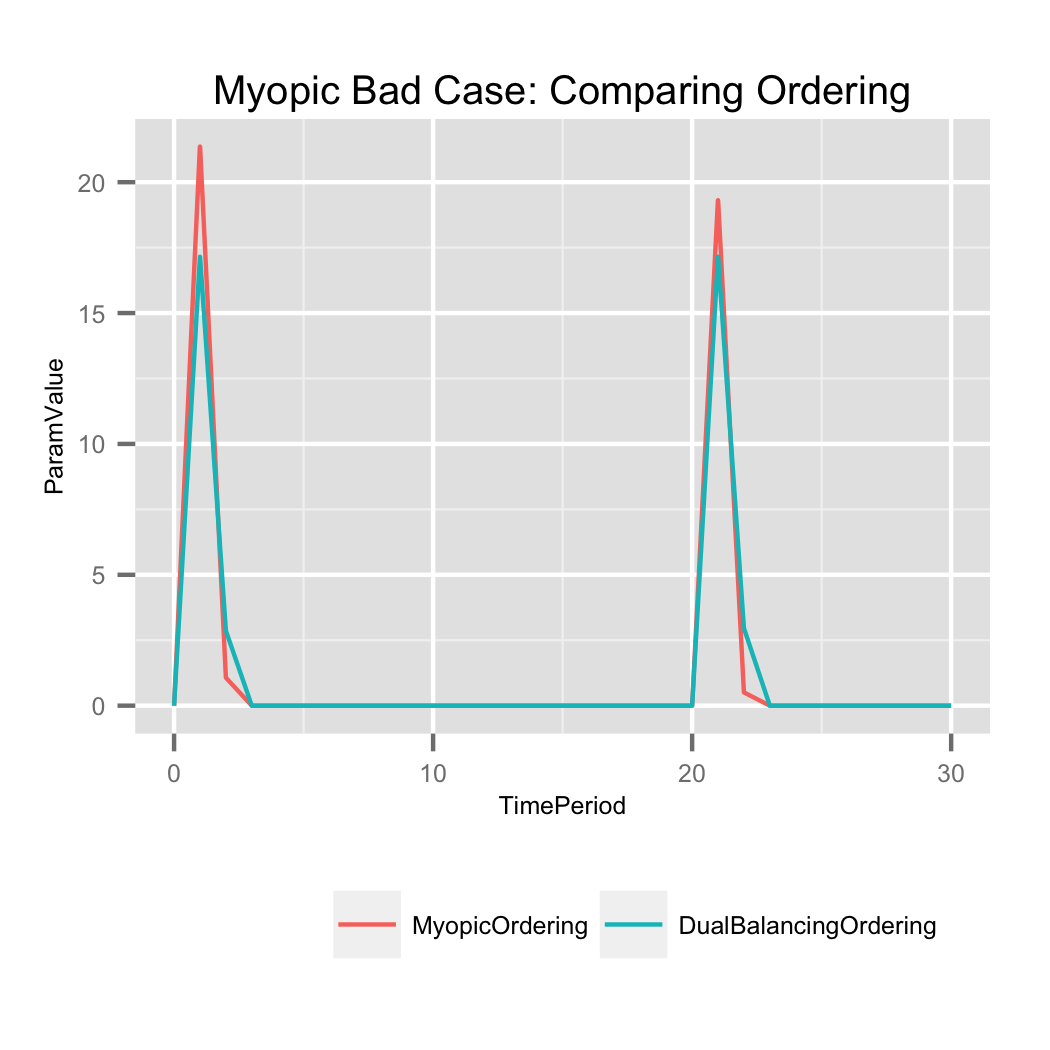
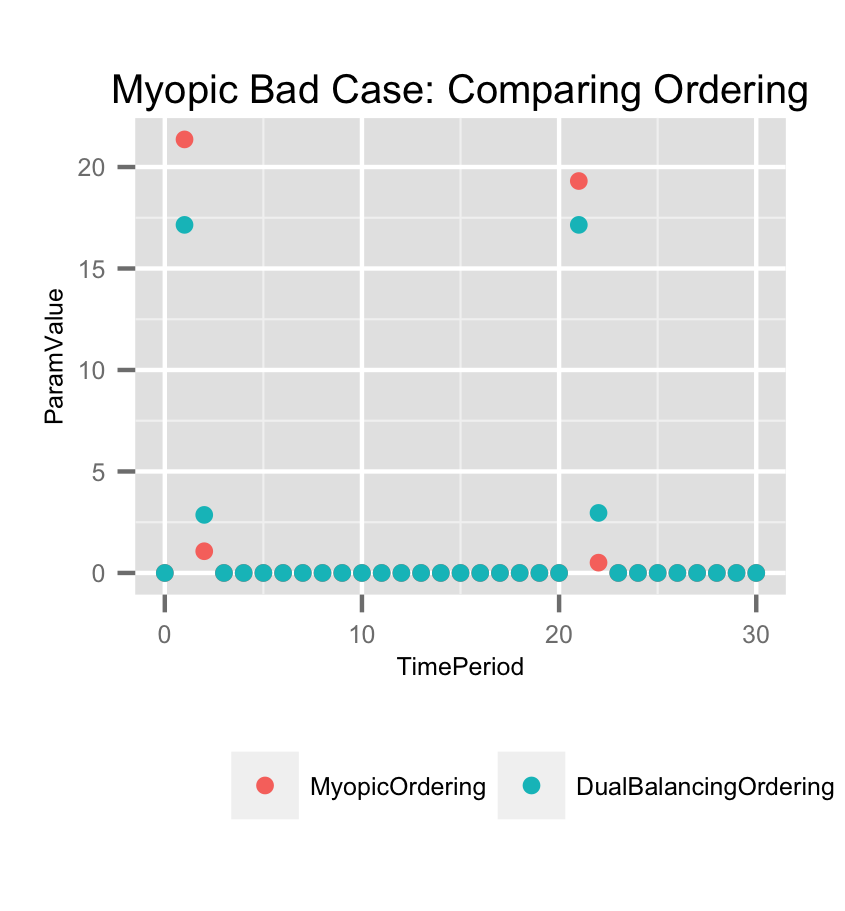
final presentation edits

Changed region(s): [[0.0308, 0.0615, 0.9538, 0.7991], [0.3077, 0.8299, 0.9846, 0.8913]]

diff --git a/final_presentation.tex b/final_presentation.tex
@@ -32,6 +32,19 @@
 \begin{document}
   \frame{\titlepage}
   \section{The Periodic-Review Stochastic Inventory Control Problem}
+  \subsection{Minimizing Cost}
+  \begin{frame}
+    \frametitle{Minimizing Expected Cost}
+    Our goal is to supply each unit of demand without ordering too early or too late. This is difficult because:
+    \begin{itemize}
+      \item Oftentimes demand and lead times (time between order and receipt of product) are unpredictable.
+      \item Inaccuracies can be extremely costly, so it is important that approximations are provably accurate within a certain range of error
+    \end{itemize}
+    To illustrate the problem, a different, and simpler algorithm:
+      \begin{center}
+      \includegraphics[height=1.5in]{purchasing.png}
+      \end{center}
+  \end{frame}
   \subsection{General Concepts}
   \begin{frame}
     \frametitle{The Periodic-Review Stochastic Inventory Control Problem}
@@ -47,20 +60,6 @@
       \item These environments experience high correlation between demands in different periods (difficult to compute optimal inventory policy).
     \end{itemize}
   \end{frame}
-  \subsection{Minimizing Cost}
-  \begin{frame}
-    \frametitle{Minimizing Expected Cost}
-    Our goal is to supply each unit of demand without ordering too early or too late. This is difficult because:
-    \begin{itemize}
-      \item Oftentimes demand and lead times (time between order and receipt of product) are unpredictable.
-      \item Inaccuracies can be extremely costly, so it is important that approximations are provably accurate within a certain range of error
-    \end{itemize}
-    To illustrate the problem, a different, and simpler algorithm:
-      \begin{center}
-      \includegraphics[height=1.5in]{purchasing.png}
-      \end{center}
-  \end{frame}
-
   \section{Expected Cost Function}
   \subsection{Minimizing Expected Cost}
   \begin{frame}
@@ -72,7 +71,7 @@
     \vspace{0.1in}
     At each time period $t = 1,\cdots,T$, the following cost are incurred
         \[L_t(x_t,d_t,q_t):=c_tq_t+h_t(x_t + q_t - d_t)^{+}+p_t(x_t + q_t -d_t)_{t}^{-}\]
-        (Local Cost = Ordering Cost + Holding Cost + Backloging Cost)
+        (Local Cost = Ordering Cost + Holding Cost + Backlogging Cost)
     \begin{itemize}
       \item $c_t$: per-unit ordering cost at time $t$.
       \item $h_t$: per-unit holding cost from $t$ to $t + 1$.
@@ -86,12 +85,11 @@
   \begin{frame}
     Goal: At time $t$, choose $q_t$ to minimize the expected total cost from period $t$ to $T$.\\
     Let $V_t$ be the minimum expected cost from period $t$ to $T$. Then
-    \begin{eqnarray*}
-    V_T(x_T,d_{1..T-1}) =& \min_{q_T \geq 0} E[L_T(x_T,D_T,q_T) | d_{1..T-1}]\\
-    V_t(x_t,d_{1..t-1}) =& \min_{q_t \geq 0} E[L_t(x_t,D_t,q_t)\\
-                        &+V_{t+1}(x_t + q_t - D_t, d_{1..t-1},D_t)|d_{1..t-1}]
-    \end{eqnarray*}
-    
+    \begin{align}
+    V_T(x_T,d_{1..T-1}) &= \min_{q_T \geq 0} E[L_T(x_T,D_T,q_T) | d_{1..T-1}] \nonumber\\
+    V_t(x_t,d_{1..t-1}) &= \min_{q_t \geq 0} E[L_t(x_t,D_t,q_t)\nonumber\\
+    & +V_{t+1}(x_t + q_t - D_t, d_{1..t-1},D_t)|d_{1..t-1}]\nonumber
+    \end{align}
     This gives us two natural ways to "solve" the problem:
     \begin{itemize}
       \item 
@@ -104,47 +102,47 @@
 
 \begin{frame}
 Recall: 
-    \begin{eqnarray*}
-    V_T(x_T,d_{1..T-1}) =& \min_{q_T \geq 0} E[L_T(x_T,D_T,q_T) | d_{1..T-1}]\\
-    V_t(x_t,d_{1..t-1}) =& \min_{q_t \geq 0} E[L_t(x_t,D_t,q_t)\\
-                        &+V_{t+1}(x_t + q_t - D_t, d_{1..t-1},D_t)|d_{1..t-1}]
-    \end{eqnarray*}
+    \begin{align}
+    V_T(x_T,d_{1..T-1}) &= \min_{q_T \geq 0} E[L_T(x_T,D_T,q_T) | d_{1..T-1}] \nonumber\\
+    V_t(x_t,d_{1..t-1}) &= \min_{q_t \geq 0} E[L_t(x_t,D_t,q_t)\nonumber\\
+    & +V_{t+1}(x_t + q_t - D_t, d_{1..t-1},D_t)|d_{1..t-1}]\nonumber
+    \end{align}
     \begin{itemize}
       \item 
         At period $s>t$, $D_s$ is a random variable that depends on perivous demands $d_1, d_2,...,d_{t+1},...,d_{s-1}$.\\
         To compute the above conditional expectation, we need to work on $q_t,...,q_T$ which are are our future decision.\\
       \item
-        Myopic approach works extremly good on many cases, but may perform extremly bad on some cases. (Bad case example will be shown at the end of the talk.)
+        The myopic approach works extremely well on many cases[1], but may perform extremely poorly on other cases. (We will explain a poorly-performing example at the end of the talk.)
     \end{itemize}
 \end{frame}
 
 
 \begin{frame}
     \begin{itemize}
-      \item 
+      \item
         In fact we also need to consider leading time $L \neq 0$ (i.e. it takes $L$ periods to receive our order.) Then we need to modify:
-        \begin{eqnarray*}
-          x_t & := Net~Inventory + Undelived~orders\\
-              & := Net~Inventory + \sum_{j = t - L+1}^{t-1} q_j\\
-          L_t(x_t,d_{t..t+L},q_t)& :=c_tq_t + h_{t+L}(x_t + q_t - \sum d_{t..t+L})^{+} \\ 
-                                &  + p_{t+L}(x_t + q_T - \sum d_{t..t+L})^{-}
-        \end{eqnarray*}
+        \begin{align}
+          x_t & := Net~Inventory + Undelived~orders\nonumber\\
+              & := Net~Inventory + \sum_{j = t - L+1}^{t-1} q_j\nonumber\\
+          L_t(x_t,d_{t..t+L},q_t)& :=c_tq_t + h_{t+L}(x_t + q_t - \sum d_{t..t+L})^{+} \nonumber\\
+                                &  + p_{t+L}(x_t + q_T - \sum d_{t..t+L})^{-}\nonumber
+        \end{align}
         ***$ \sum d_{t..t+L} := d_t + ... + d_{t+L}$\\
         %***$Undelived~orders := \sum_{j = t - L+1}^{t-1} q_j$
       \item
         We can assume $c_t = 0$ by doing the transformation:
-        \begin{eqnarray*}
-          &\hat{c_t} := 0;\\
-          &\hat{h_t} := h_t + c_t - c_{t+1}\\
-          &\hat{p_t} := p_t - c_t + c_{t+1}
-        \end{eqnarray*}
-        ***$c_{T+1} := 0$
+        \begin{align}
+          \hat{c_t} &:= 0;\nonumber\\
+          \hat{h_t} &:= h_t + c_t - c_{t+1}\nonumber\\
+          \hat{p_t} &:= p_t - c_t + c_{t+1}\nonumber\\
+          c_{T+1} &:= 0\nonumber
+        \end{align}
       \end{itemize}
 \end{frame}
 
 
 \begin{frame}
-    \frametitle{Dual-Balancing Algotrithm}
+    \frametitle{Dual-Balancing Algorithm [2]}
     Recall {\em Local Backlogging Cost}: 
     $$\Pi_t(x_t,q_t) := p_{t+L}(x_t + q_T - \sum D_{t..t+L})^{-}$$
     Now, we define {\em Marginal Holding Cost}:
@@ -152,9 +150,9 @@ Recall:
     Dual-Balancing Algorithm:
     \begin{itemize}
       \item 
-        Do transformation make ordering cost 0.
+        Do transformation to make the ordering cost 0.
       \item
-        Solve the convex optimaztion problem 
+        Solve the convex optimization problem:
         $$q_t^* = argmin_{q_t > 0} \max{E[H_t(x_t,q_t)| d_{1..t-1}], E[\Pi_t(x_t,q_t)| d_{1..t-1}]}$$
         in order to find out $q_t^*$ such that
         $$E[H_t(x_t,q_t^*)| d_{1..t-1}] = E[\Pi_t(x_t,q_t^*)| d_{1..t-1}]$$
@@ -162,7 +160,7 @@ Recall:
 \end{frame}
 
 \begin{frame}
-  \frametitle{Challenges in Implementation}    
+  \frametitle{Challenges in Implementation}
   \begin{center}
     \includegraphics[height=2.65in]{software_diagram.png}
   \end{center}
@@ -172,7 +170,7 @@ Recall:
 In following simulations:
     \begin{itemize}
       \item We always let $c_t = 3, h_t = 1, p_t = 2$.
-      \item Without specific mention, time horize $T = 100, L = 5, x_0 = 0$.
+      \item Without specific mention, time horizon $T = 100, L = 5, x_0 = 0$.
       \item The sample size is 20, if we do averages.
       \item We considered four different demands (i.e. $D_t$) distribution:\\
             1. $D_t = N(50,5)$ are iid.\\
@@ -190,13 +188,13 @@ In following simulations:
   \includegraphics[height=3.5in]{figures/LeadTime.png}
 \end{frame}
 
-\begin{frame}
-  \includegraphics[height=3.5in]{figures/NetInventory.png}
-\end{frame}
+%\begin{frame}
+%  \includegraphics[height=3.5in]{figures/NetInventory.png}
+%\end{frame}
 
-\begin{frame}
-  \includegraphics[height=3.5in]{figures/TotalCostToOrderRatio.png}
-\end{frame}
+%\begin{frame}
+%  \includegraphics[height=3.5in]{figures/TotalCostToOrderRatio.png}
+%\end{frame}
 
 \begin{frame}
   \begin{figure}[ht]
@@ -224,31 +222,31 @@ In following simulations:
   \end{figure}
 \end{frame}
 
-\begin{frame}
-  \begin{figure}[ht]
-  \begin{minipage}[b]{.45\linewidth}
-  \includegraphics[height=1.2in]{figures/DemandAndNetInventory_Normal.png}
-  \end{minipage}
-  \quad
-  \begin{minipage}[b]{.45\linewidth}
-  \includegraphics[height=1.2in]{figures/DemandAndNetInventory_Binomial.png}
-  \end{minipage}
-  \end{figure}
-  \begin{figure}[ht]
-  \begin{minipage}[b]{.45\linewidth}
-  \includegraphics[height=1.2in]{figures/DemandAndNetInventory_Brownian.png}
-  \end{minipage}
-  \quad
-  \begin{minipage}[b]{.45\linewidth}
-  \includegraphics[height=1.2in]{figures/DemandAndNetInventory_Markov.png}
-  \end{minipage}
-  \end{figure}
-  \begin{figure}[ht]
-  \begin{minipage}[b]{.9\linewidth}
-  \includegraphics[height=.35in]{figures/key2.png}
-  \end{minipage}
-  \end{figure}
-\end{frame}
+%\begin{frame}
+%  \begin{figure}[ht]
+%  \begin{minipage}[b]{.45\linewidth}
+%  \includegraphics[height=1.2in]{figures/DemandAndNetInventory_Normal.png}
+%  \end{minipage}
+%  \quad
+%  \begin{minipage}[b]{.45\linewidth}
+%  \includegraphics[height=1.2in]{figures/DemandAndNetInventory_Binomial.png}
+%  \end{minipage}
+%  \end{figure}
+%  \begin{figure}[ht]
+%  \begin{minipage}[b]{.45\linewidth}
+%  \includegraphics[height=1.2in]{figures/DemandAndNetInventory_Brownian.png}
+%  \end{minipage}
+%  \quad
+%  \begin{minipage}[b]{.45\linewidth}
+%  \includegraphics[height=1.2in]{figures/DemandAndNetInventory_Markov.png}
+%  \end{minipage}
+%  \end{figure}
+%  \begin{figure}[ht]
+%  \begin{minipage}[b]{.9\linewidth}
+%  \includegraphics[height=.35in]{figures/key2.png}
+%  \end{minipage}
+%  \end{figure}
+%\end{frame}
 
 \begin{frame}
   \includegraphics[height=3.5in]{figures/MyopicBadDemand.png}
@@ -258,9 +256,9 @@ In following simulations:
   \includegraphics[height=3.5in]{figures/MyopicBadNetInventory.png}
 \end{frame}
 
-\begin{frame}
-  \includegraphics[height=3.5in]{figures/MyopicBadOrdering.png}
-\end{frame}
+%\begin{frame}
+%  \includegraphics[height=3.5in]{figures/MyopicBadOrdering.png}
+%\end{frame}
 
 \begin{frame}
   \includegraphics[height=3.5in]{figures/MyopicBadAccumulativeCost.png}
